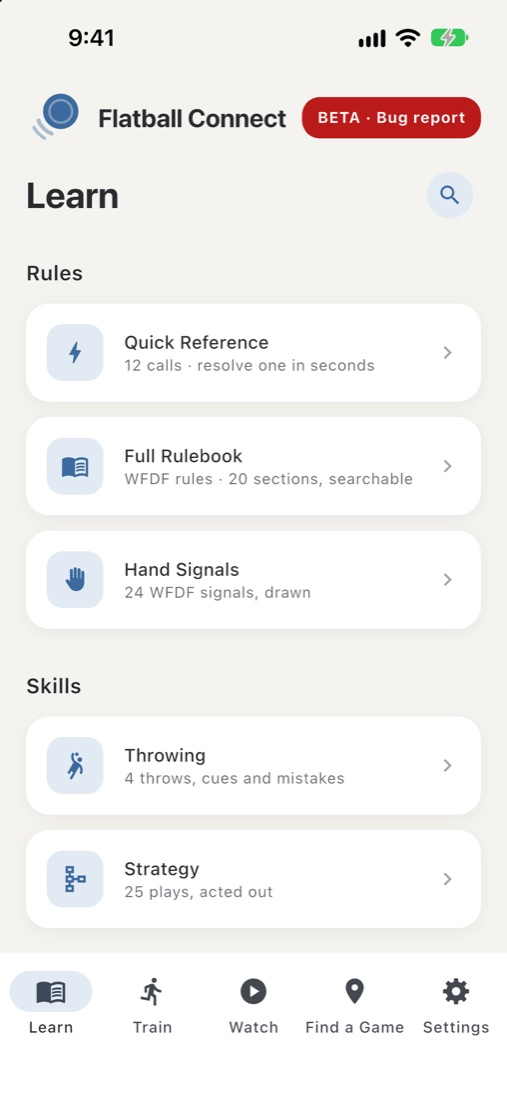
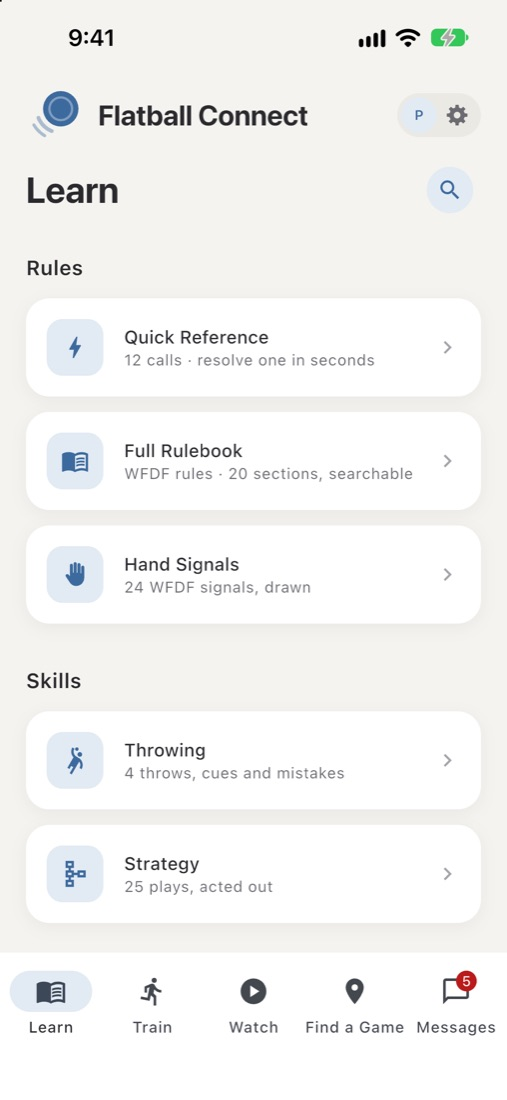
Home page: nine current screenshots, two under each section

diff --git a/index.html b/index.html
@@ -32,8 +32,8 @@
 
     <div class="phones">
       <figure class="phone"><img src="screens/learn.jpg" width="1100" height="2385" alt="The Learn tab: Quick Reference, Full Rulebook, Hand Signals, Throwing and Strategy"><figcaption>Learn</figcaption></figure>
-      <figure class="phone"><img src="screens/play.jpg" width="1100" height="2385" alt="Vertical stack acted out: #3 throws long to #7 going deep, the open side shaded green"><figcaption>Strategies, acted out</figcaption></figure>
-      <figure class="phone"><img src="screens/signals.jpg" width="1100" height="2385" alt="The hand signals, each drawn: Foul, Violation, Goal, Contest"><figcaption>The 24 hand signals</figcaption></figure>
+      <figure class="phone"><img src="screens/play.jpg" width="1100" height="2385" alt="Horizontal stack acted out: #7 goes deep as the disc flies to them, the open side shaded green"><figcaption>Strategies, acted out</figcaption></figure>
+      <figure class="phone"><img src="screens/chat.jpg" width="1100" height="2385" alt="A game's chat: the organizer's pinned note, who joined, a change of kick-off, players' messages and quick replies"><figcaption>A chat for every game</figcaption></figure>
     </div>
 
     <h2 class="section">Rules</h2>
@@ -47,6 +47,10 @@
       <div class="nav-card"><div class="badge"><i class="icon" style="--src:url(icons/quiz.svg)"></i></div>
         <div class="text"><strong>Daily quiz</strong><span>Five questions a day that grow with your streak</span></div></div>
     </div>
+    <div class="phones pair">
+      <figure class="phone"><img src="screens/quiz.jpg" width="1100" height="2385" loading="lazy" alt="The daily quiz asking which signal a drawn player is making, with four answers"><figcaption>The daily quiz</figcaption></figure>
+      <figure class="phone"><img src="screens/signals.jpg" width="1100" height="2385" loading="lazy" alt="The hand signals, each drawn: Foul, Violation, Goal, Contest"><figcaption>The 24 hand signals</figcaption></figure>
+    </div>
 
     <h2 class="section">Skills</h2>
     <div class="nav-cards">
@@ -59,6 +63,10 @@
       <div class="nav-card"><div class="badge"><i class="icon" style="--src:url(icons/watch.svg)"></i></div>
         <div class="text"><strong>Watch</strong><span>Coaching videos and highlights, new every day</span></div></div>
     </div>
+    <div class="phones pair">
+      <figure class="phone"><img src="screens/train.jpg" width="1100" height="2385" loading="lazy" alt="The Train tab: a warm-up and a cool-down to follow along, exercise by exercise"><figcaption>Warm-ups to follow along</figcaption></figure>
+      <figure class="phone"><img src="screens/drills.jpg" width="1100" height="2385" loading="lazy" alt="The drill library: each drill with players, minutes, focus and level, and Add to plan"><figcaption>The drill library</figcaption></figure>
+    </div>
 
     <h2 class="section">Play</h2>
     <div class="nav-cards">
@@ -66,6 +74,10 @@
         <div class="text"><strong>Find a Game</strong><span>A map of pickup games near you. Post one, see who's going, MMP and FMP counts, reminders before kick-off</span></div></div>
       <div class="nav-card"><div class="badge"><i class="icon" style="--src:url(icons/messages.svg)"></i></div>
         <div class="text"><strong>Messages</strong><span>A chat for every game you're in, with who joined and any change of time, and messages to players you've met or found by name</span></div></div>
+    </div>
+    <div class="phones pair">
+      <figure class="phone"><img src="screens/map.jpg" width="1100" height="2385" loading="lazy" alt="Find a Game: pickup games on a map of Goa, one open with its time, place, spots and MMP and FMP counts"><figcaption>Games near you</figcaption></figure>
+      <figure class="phone"><img src="screens/game.jpg" width="1100" height="2385" loading="lazy" alt="Who's going to a game, each player tagged MMP or FMP, with I'm in and Interested"><figcaption>Who's going</figcaption></figure>
     </div>
 
     <div class="card callout" id="try" style="margin-top:36px">

diff --git a/style.css b/style.css
@@ -159,6 +159,12 @@ h3 { font-size: 18px; margin: 22px 0 6px; }
 .phone figcaption {
   text-align: center; font-size: 14px; color: var(--text-2); margin-top: 10px;
 }
+/* Two more under a section's cards, side by side on any screen. */
+.phones.pair {
+  justify-content: center; overflow: visible; margin: 20px 0 0;
+  padding-left: 0; padding-right: 0;
+}
+.phones.pair .phone { width: min(220px, calc(50% - 8px)); }
 @media (min-width: 720px) {
   .phones { justify-content: center; overflow: visible; margin: 28px 0 0;
     padding-left: 0; padding-right: 0; }
